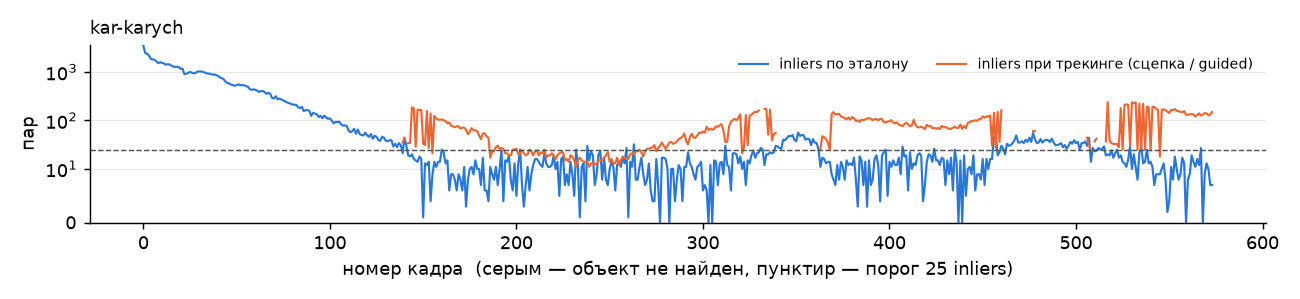
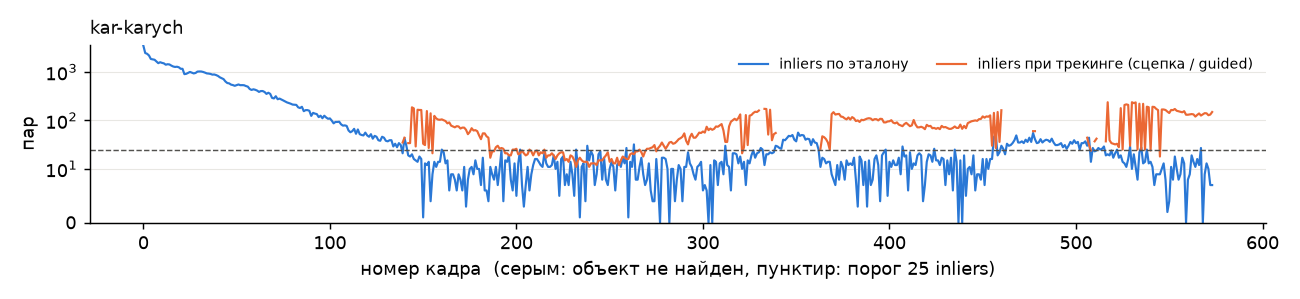
Группа P3413, убраны длинные тире

Changed region(s): [[0.2462, 0.8729, 0.4308, 0.9331], [0.6462, 0.8729, 0.8, 0.9331]]

diff --git a/evaluate.py b/evaluate.py
@@ -189,7 +189,7 @@ def plot_timeline(all_rows, path):
             ax.spines[s].set_visible(False)
         ax.grid(axis="y", color="#e8e7e3", lw=0.6)
     axes[0].legend(loc="upper right", frameon=False, fontsize=8, ncol=2)
-    axes[-1].set_xlabel("номер кадра  (серым — объект не найден, пунктир — порог 25 inliers)")
+    axes[-1].set_xlabel("номер кадра  (серым: объект не найден, пунктир: порог 25 inliers)")
     fig.tight_layout()
     fig.savefig(path, dpi=130)
     plt.close(fig)
